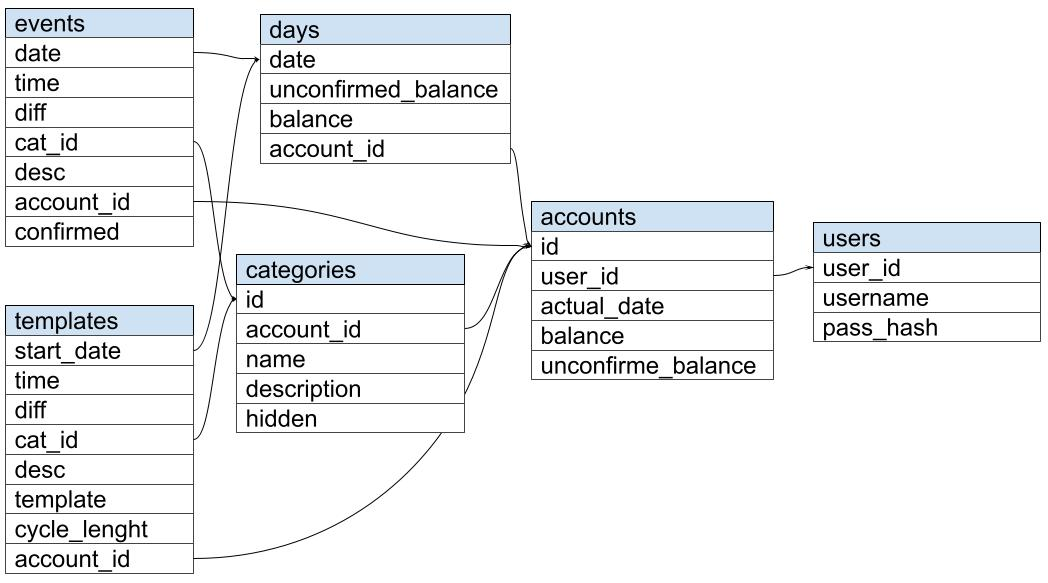
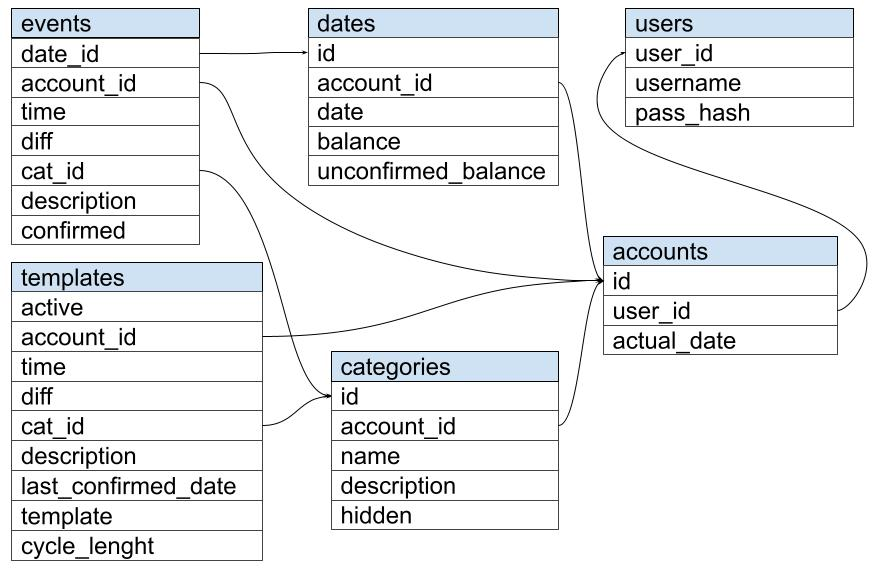
orm

diff --git a/db_app/src/models.py b/db_app/src/models.py
@@ -2,7 +2,7 @@
 
 import datetime
 
-from sqlalchemy import Column, DateTime, ForeignKey, Integer, String
+from sqlalchemy import Column, ForeignKey, Date, Time, Integer, String, Boolean
 from sqlalchemy.ext.declarative import declarative_base
 from sqlalchemy.orm import relationship
 
@@ -25,83 +25,121 @@ class User(DeclarativeBase):
     __tablename__ = 'users'
 
     id = Column(Integer(), primary_key=True)
-    name = Column(String(100), nullable=False, unique=False)
+    name = Column(String(100), nullable=False, unique=True)
     password_hash = Column(String(200), nullable=False, unique=False)
-    # created_on = db.Column(db.DateTime())
-    # last_login = db.Column(db.DateTime())
-    # accepted_balance = db.Column(db.Integer())
-    # balance_accepted_on = db.Column(db.DateTime())
 
-    # def serialize(self):
-    #     """Serialize user into dict."""
-    #     return {
-    #         'created_on': self.created_on,
-    #         'last_login': self.last_login,
-    #         'accepted_balance': self.accepted_balance,
-    #         'balance_accepted_on': self.balance_accepted_on,
-    #     }
+    accounts = relationship(
+        'Account',
+        back_populates='user',
+        cascade="all, delete",
+        passive_deletes=True
+    )
 
 
-# class Month(db.Model):
-#     """Month data."""
+class Account(DeclarativeBase):
+    """Account model. Each user can have multyple accounts."""
 
-#     __tablename__ = 'months'
+    __tablename__ = 'accounts'
 
-#     id = db.Column(db.Integer(), primary_key=True)
-#     date = db.Column(db.DateTime())
-#     initial_value = db.Column(db.Integer())
+    id = Column(Integer(), primary_key=True)
+    user_id = Column(Integer(), ForeignKey('users.id'))
+    actual_date = Column(Date())
 
-#     user_id = db.relationship("User", backref="id")
-
-
-# class Category(db.Model):
-#     """Events category table."""
-
-#     __tablename__ = 'operation_category'
-
-#     id = db.Column(db.Integer(), primary_key=True)
-#     name = db.Column(db.String(100), primary_key=True)
-
-#     user_id = db.relationship("User", backref="id")
-
-
-# class Event(db.Model):
-#     """Events table."""
-
-#     __tablename__ = 'events'
-
-#     id = db.Column(db.Integer(), primary_key=True)
-#     date = db.Column(db.DateTime())
-#     value = db.Column(db.Integer())
-#     comment = db.Column(db.String(200))
-#     accepted = db.Column(db.Boolean())
-
-#     category = db.relationship("Category", backref="id")
-#     user_id = db.relationship("User", backref="id")
-
-#     def serialize(self):
-#         """Serialize event into dict."""
-#         return {
-#             "id": self.id,
-#             'date': self.date,
-#             'value': self.value,
-#             'comment': self.comment,
-#             'accepted': self.accepted,
-#             'category': self.category
-#         }
+    user = relationship('User', back_populates='accounts')
+    dates = relationship(
+        'Date',
+        back_populates='account',
+        cascade="all, delete",
+        passive_deletes=True
+    )
+    categories = relationship(
+        'Category',
+        back_populates='account',
+        cascade="all, delete",
+        passive_deletes=True
+    )
+    events = relationship('Event', back_populates='account')
+    templates = relationship(
+        'Template',
+        back_populates='account',
+        cascade="all, delete",
+        passive_deletes=True
+    )
 
 
-# class Template(db.Model):
-#     """Events templates table."""
+class Date(DeclarativeBase):
+    """Dates of transactions."""
 
-#     __tablename__ = "templates"
+    __tablename__ = 'dates'
 
-#     id = db.Column(db.Integer(), primary_key=True)
-#     start_date = db.Column(db.DateTime())
-#     end_date = db.Column(db.DateTime())
-#     cycle = db.Column(db.PickleType())
-#     value = db.Column(db.Integer())
-#     comment = db.Column(db.String(200))
+    id = Column(Integer(), primary_key=True)
+    account_id = Column(Integer(), ForeignKey('accounts.id'))
+    date = Column(Date())
+    balance = Column(Integer())
+    unconfirmed_balance = Column(Integer())
 
-#     category = db.relationship("Category", backref="id")
-#     user_id = db.relationship("User", backref="id")
+    account = relationship('Account', back_populates='dates')
+    events = relationship(
+        'Event',
+        back_populates='date',
+        cascade="all, delete",
+        passive_deletes=True
+    )
+
+
+class Category(DeclarativeBase):
+    """Categories of transactions."""
+
+    __tablename__ = 'categories'
+
+    id = Column(Integer(), primary_key=True)
+    account_id = Column(Integer(), ForeignKey('accounts.id'))
+    name = Column(String(100))
+    description = Column(String(200))
+    hidden = Column(Boolean())
+
+    account = relationship('Account', back_populates='categories')
+    events = relationship('Event', back_populates='category')
+    templates = relationship(
+        'Template',
+        back_populates='category',
+        cascade="all, delete",
+        passive_deletes=True
+    )
+
+
+class Event(DeclarativeBase):
+    """Transactions events."""
+
+    __tablename__ = 'events'
+
+    date_id = Column(Date(), ForeignKey('dates.id'))
+    account_id = Column(Integer(), ForeignKey('accounts.id'))
+    time = Column(Time())
+    diff = Column(Integer())
+    category_id = Column(Integer(), ForeignKey('categories.id'))
+    description = Column(String(200))
+    confirmed = Column(Boolean())
+
+    date = relationship('Date', back_populates='events')
+    account = relationship('Account', back_populates='events')
+    category = relationship('Category', back_populates='events')
+
+
+class Template(DeclarativeBase):
+    """Events templates."""
+
+    __tablename__ = 'templates'
+
+    active = Column(Boolean())
+    account_id = Column(Integer(), ForeignKey('accounts.id'))
+    time = Column(Time())
+    diff = Column(Integer())
+    category_id = Column(Integer(), ForeignKey('category.id'))
+    last_confirmed_date = Column(Date())
+    description = Column(String(200))
+    template = Column(Integer())
+    cycle_length = Column(Integer())
+
+    account = relationship('Account', back_populates='events')
+    category = relationship('Category', back_populates='events')

diff --git a/api_app/app/api_bp.py b/api_app/app/api_bp.py
@@ -5,6 +5,7 @@ import logging
 from functools import wraps
 
 from flask import Blueprint, request
+from flask_jwt_extended import jwt_required
 
 from . import rpc
 
@@ -12,11 +13,11 @@ from . import rpc
 bp = Blueprint('api_bp', __name__)
 
 
-# @bp.route("/get_user_data", methods=['POST'])
-# @login_required
-# def get_user_data():
-#     """Get user data."""
-#     pass
+@bp.route("/add_event", methods=['POST'])
+@jwt_required()
+def add_event():
+    """Add new event."""
+    return {"method": "add_event"}
 
 
 # @bp.route("/get_unaccepted", methods=['POST'])
@@ -38,34 +39,6 @@ bp = Blueprint('api_bp', __name__)
 # def get_day_events():
 #     """Get events in one day."""
 #     pass
-
-
-# @bp.route("/get_month", methods=['POST'])
-# @login_required
-# def get_month():
-#     """Get statistsics for month."""
-#     pass
-
-
-# @bp.route("/get_year", methods=['POST'])
-# @login_required
-# def get_year():
-#     """Get statistics for year."""
-#     pass
-
-
-# @bp.route("/get_all_years", methods=['POST'])
-# @login_required
-# def get_all_years():
-#     """Get info on all user history."""
-#     pass
-
-
-# @bp.route("/add_event", methods=['POST'])
-# @login_required
-# def add_event():
-#     """Add new event."""
-#     return {"method": "add_event"}
 
 
 # @bp.route("/edit_event", methods=['POST'])

diff --git a/api_app/app/login_bp.py b/api_app/app/login_bp.py
@@ -3,7 +3,7 @@
 from hashlib import md5
 
 from flask import Blueprint, request, jsonify
-from flask_jwt_extended import create_access_token, current_user, jwt_required, get_current_user
+from flask_jwt_extended import create_access_token, jwt_required, get_current_user
 
 from common.debug_tools import log_request, log_method
 from common.schemas import UserSchema
@@ -108,5 +108,5 @@ def login():
 def logout():
     """Log out user."""
     # TODO balcklist token
-    rpc.cache_service.forget_user(current_user.id)
+    rpc.cache_service.forget_user(get_current_user().id)
     return {"status": "OK"}
